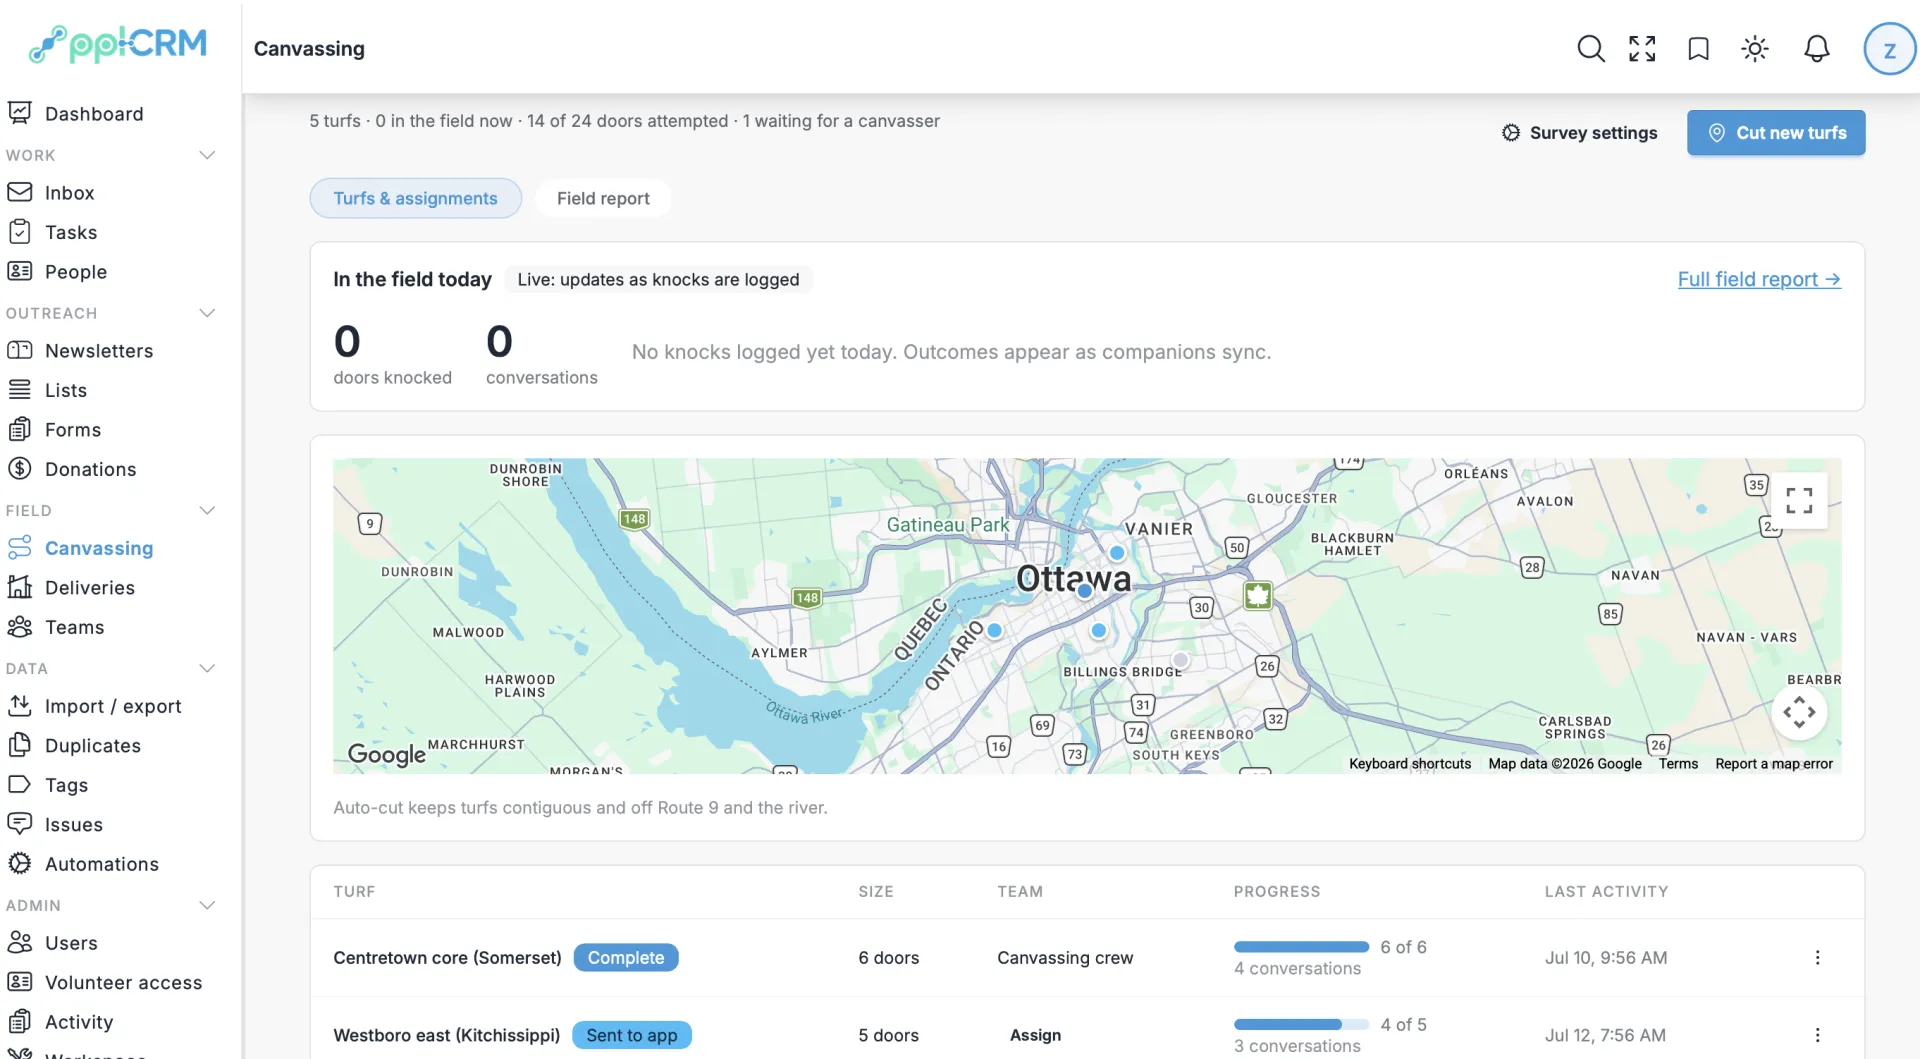
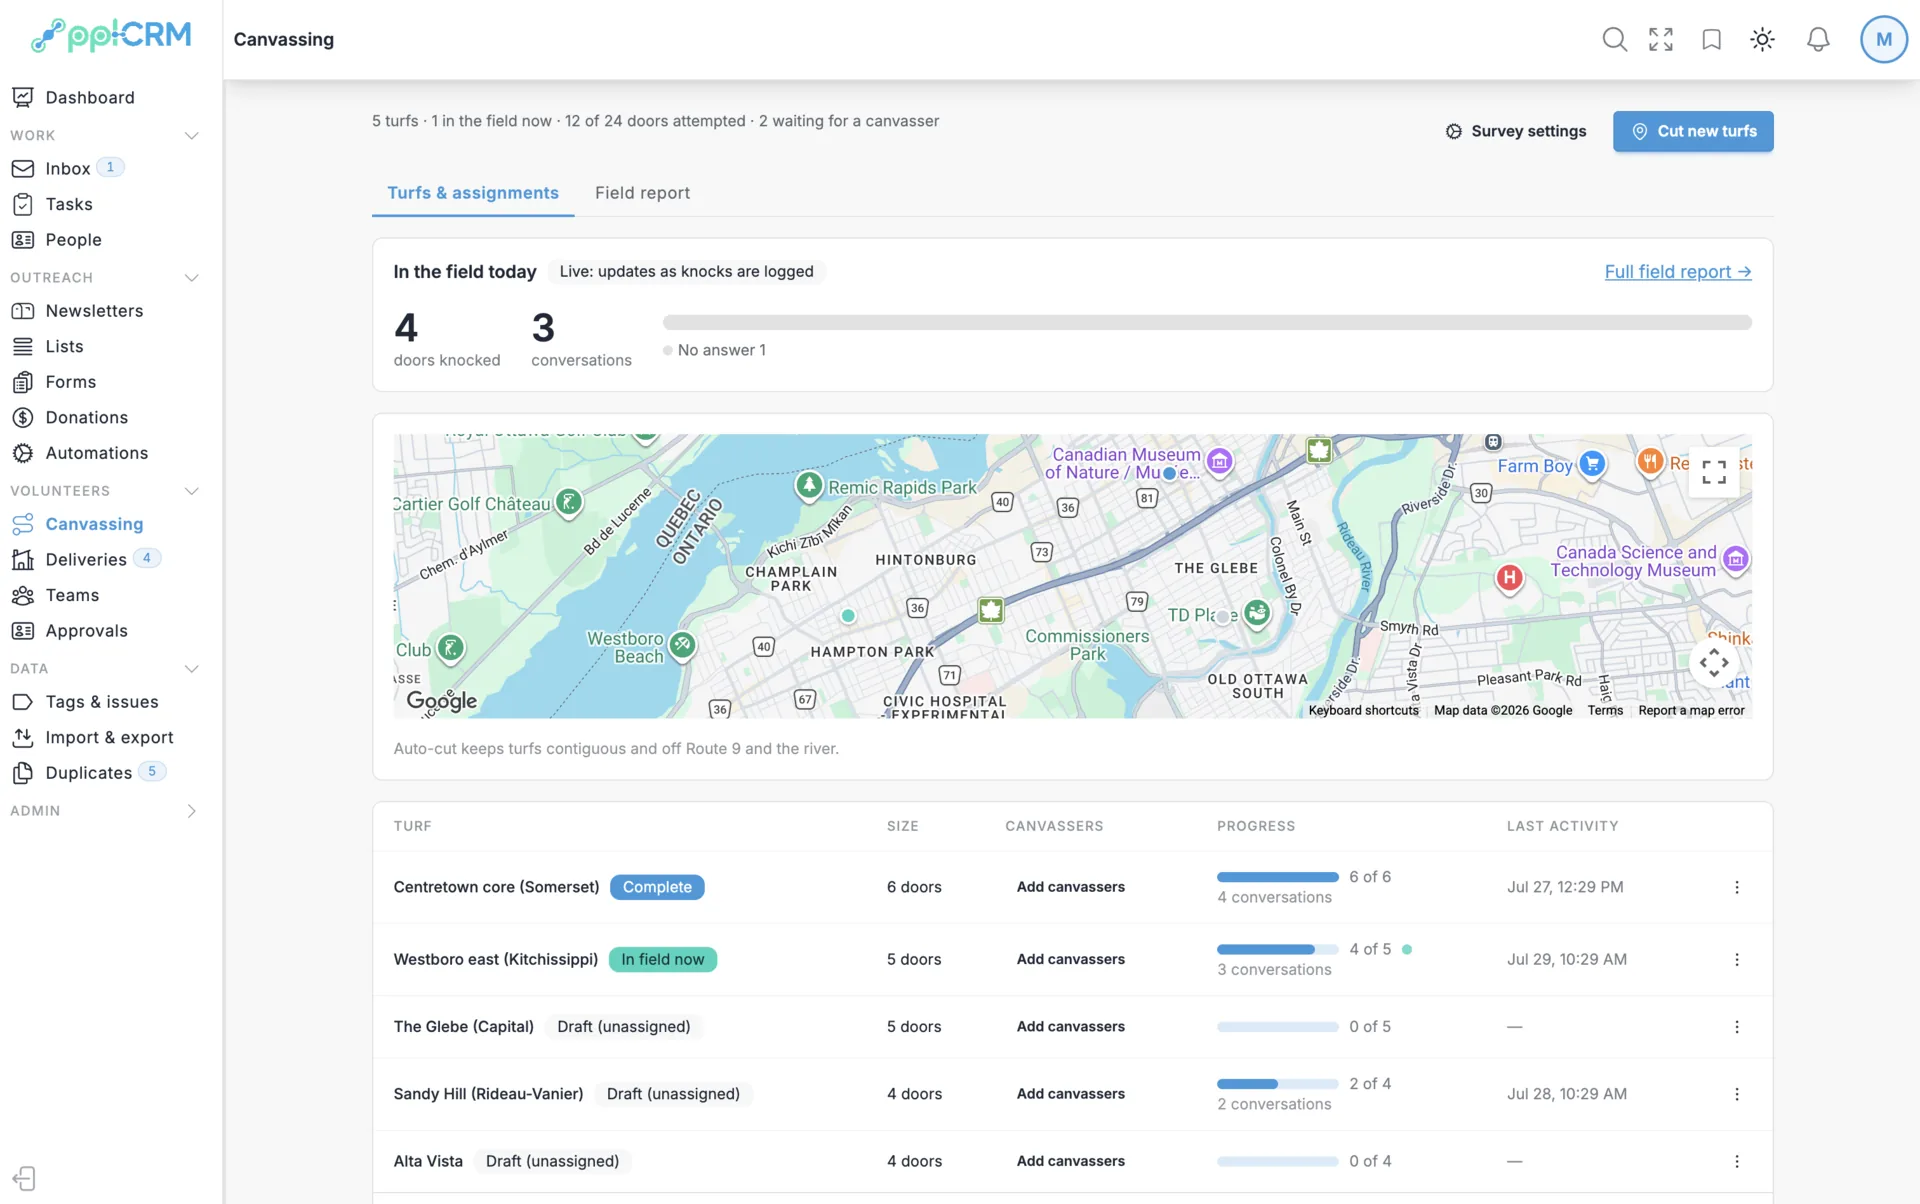
chore: real hero screenshots, and remove the owner's name from the product
Four captured hero shots replace the stale set, and audience-content.ts points
each frame URL at the page its screenshot actually shows — /households for the
church (the family claim is a household claim) and /people/ruth-abbott for the
non-profit, where the record proves "one list" better than a ledger does. The
imgIsPlaceholder flag is cleared, so the build stops warning.

The office shot now opens an interview request rather than a lawn-sign request
— casework on the page selling casework — and the canvassing map is zoomed to
the turfs instead of the whole region, so the pins are legible and "live field
report" has its evidence.

=== The owner's name shipped further than the screenshots ===

apps/backend/src/app/lib/mail/logo-asset.ts embeds the pplCRM logo as base64,
and the PNG carried its XMP metadata:

  <pdf:Author>Zee Hamid Office</pdf:Author>
  <xmp:CreatorTool>Canva doc=... user=UAGNY_PpDJA brand=BAGNY22nb3A</...>

That logo is attached to EVERY transactional email as an inline CID image, so a
personal name and a set of Canva account identifiers were reaching every
recipient the product has ever mailed. Stripped and re-embedded: 0 differing
pixels, 363 bytes smaller, metadata gone.

Four spec files also used the repo owner as fixture data (first_name 'Zee',
last_name 'Hamid', zee@example.com, 'Zee Tester'). Renamed to Dana Okonkwo and
Priya Raman. In the dashboard spec the variables are renamed by ROLE —
[…]

diff --git a/apps/backend/src/app/lib/mail/logo-asset.ts b/apps/backend/src/app/lib/mail/logo-asset.ts
@@ -4,4 +4,4 @@
 // Regenerate: base64 -i apps/frontend/src/assets/logo.png | tr -d "\\n"
 export const LOGO_CID = 'pplcrm-logo';
 export const LOGO_PNG_BASE64 =
[2 lines of base64/hex data omitted]

diff --git a/apps/backend/src/app/modules/dashboard/controller.spec.ts b/apps/backend/src/app/modules/dashboard/controller.spec.ts
@@ -7,8 +7,8 @@ describe('DashboardController Closed Emails Attribution', () => {
   const db = (BaseRepository as any)._db;
   const rand = () => String(Math.floor(Math.random() * 100000000) + 10000000);
   let tenantId: string;
-  let user1Id: string; // Zee (closer)
-  let user2Id: string; // Zeeshan (assignee)
+  let user1Id: string; // Dana (closer)
+  let user2Id: string; // Priya (assignee)
   let campaignId: string;
   let emailId: string;
 
@@ -35,10 +35,10 @@ describe('DashboardController Closed Emails Attribution', () => {
         {
           id: user1Id,
           tenant_id: tenantId,
-          email: `zee-${user1Id}@example.com`,
+          email: `dana-${user1Id}@example.com`,
           password: 'password',
-          first_name: 'Zee',
-          last_name: 'Hamid',
+          first_name: 'Dana',
+          last_name: 'Okonkwo',
           verified: true,
           createdby_id: user1Id,
           updatedby_id: user1Id,
@@ -46,9 +46,9 @@ describe('DashboardController Closed Emails Attribution', () => {
         {
           id: user2Id,
           tenant_id: tenantId,
-          email: `zeeshan-${user2Id}@example.com`,
+          email: `priya-${user2Id}@example.com`,
           password: 'password',
-          first_name: 'Zeeshan',
+          first_name: 'Priya',
           last_name: 'Ali',
           verified: true,
           createdby_id: user2Id,
@@ -70,7 +70,7 @@ describe('DashboardController Closed Emails Attribution', () => {
       })
       .execute();
 
-    // 4. Email in Inbox (folder_id '11'), assigned to Zeeshan (user2Id), but closed
+    // 4. Email in Inbox (folder_id '11'), assigned to Priya (user2Id), but closed
     await db
       .insertInto('emails')
       .values({
@@ -90,7 +90,7 @@ describe('DashboardController Closed Emails Attribution', () => {
       })
       .execute();
 
-    // 5. Activity log recording that Zee (user1Id) closed the email
+    // 5. Activity log recording that Dana (user1Id) closed the email
     await db
       .insertInto('user_activity')
       .values({
@@ -113,23 +113,23 @@ describe('DashboardController Closed Emails Attribution', () => {
     await db.deleteFrom('tenants').where('id', '=', tenantId).execute();
   });
 
-  it('should attribute closed emails to the actual closer user (Zee) instead of the assignee (Zeeshan)', async () => {
-    const auth = { tenant_id: tenantId, user_id: user1Id, name: 'Zee' } as any;
+  it('should attribute closed emails to the actual closer user (Dana) instead of the assignee (Priya)', async () => {
+    const auth = { tenant_id: tenantId, user_id: user1Id, name: 'Dana' } as any;
     const stats = await controller.getStats(auth);
 
-    // Verify emailsClosed list has Zee (user1Id) credited, and not Zeeshan
-    const zeeClosed = stats.emailsClosed.find((u: any) => String(u.user_id) === user1Id);
-    const zeeshanClosed = stats.emailsClosed.find((u: any) => String(u.user_id) === user2Id);
+    // Verify emailsClosed list has Dana (user1Id) credited, and not Priya
+    const closerClosed = stats.emailsClosed.find((u: any) => String(u.user_id) === user1Id);
+    const assigneeClosed = stats.emailsClosed.find((u: any) => String(u.user_id) === user2Id);
 
-    expect(zeeClosed).toBeDefined();
-    expect(zeeClosed?.count).toBe(1);
-    expect(zeeshanClosed).toBeUndefined();
+    expect(closerClosed).toBeDefined();
+    expect(closerClosed?.count).toBe(1);
+    expect(assigneeClosed).toBeUndefined();
 
     // Verify userStats array has the correct counts
-    const zeeStats = stats.userStats.find((u: any) => String(u.user_id) === user1Id);
-    const zeeshanStats = stats.userStats.find((u: any) => String(u.user_id) === user2Id);
+    const closerStats = stats.userStats.find((u: any) => String(u.user_id) === user1Id);
+    const assigneeStats = stats.userStats.find((u: any) => String(u.user_id) === user2Id);
 
-    expect(zeeStats?.closedCount).toBe(1);
-    expect(zeeshanStats?.closedCount).toBe(0);
+    expect(closerStats?.closedCount).toBe(1);
+    expect(assigneeStats?.closedCount).toBe(0);
   });
 });

diff --git a/apps/website/src/app/home/audience-content.ts b/apps/website/src/app/home/audience-content.ts
@@ -293,7 +293,7 @@ export const AUDIENCE_CONTENT: Record<Audience, AudienceCopy> = {
     hero: {
       h1: 'Donors, volunteers and neighbours. One list.',
       sub: 'Stop reconciling three spreadsheets. Gifts, drives and newsletters live on one person’s record.',
-      url: 'app.pplcrm.com/donations',
+      url: 'app.pplcrm.com/people/ruth-abbott',
       img: 'assets/site-shots/03-shot.webp',
     },
     steps: [
@@ -374,15 +374,10 @@ export const AUDIENCE_CONTENT: Record<Audience, AudienceCopy> = {
     hero: {
       h1: 'Know every family by name.',
       sub: 'Members, visitors and volunteers on one list. Giving, groups and follow-up visits all live on the family’s record.',
-      // PLACEHOLDER. Final values once 04-shot.webp (a church-mode People grid) is captured:
-      //   url: 'app.pplcrm.com/people',  img: 'assets/site-shots/04-shot.webp'
-      // Borrowing the non-profit donations shot until then, with `url` pointed at it so the
-      // browser frame does not caption a giving ledger as /people. It is the closest match —
-      // but its sidebar is the pre-org-mode IA (Canvassing/Donations, not Visitation/Giving),
-      // which is exactly the vocabulary claim the church page makes. Do not ship it live.
-      url: 'app.pplcrm.com/donations',
-      img: 'assets/site-shots/03-shot.webp',
-      imgIsPlaceholder: true,
+      // Households, not People: "know every family by name" is a claim about the household being
+      // the unit, and the grid shows exactly that — the Haddads as four members on one row.
+      url: 'app.pplcrm.com/households',
+      img: 'assets/site-shots/04-shot.webp',
     },
     steps: [
       {

diff --git a/apps/frontend/src/app/experiences/imports/ui/import-wizard.spec.ts b/apps/frontend/src/app/experiences/imports/ui/import-wizard.spec.ts
@@ -110,7 +110,7 @@ describe('ImportWizard', () => {
   }
 
   async function uploadSampleFile(): Promise<void> {
-    await uploadFile('First Name,Email\nAmira,amira@example.com\nZee,zee@example.com\n');
+    await uploadFile('First Name,Email\nAmira,amira@example.com\nDana,dana@example.com\n');
   }
 
   async function flushAsync(): Promise<void> {
@@ -167,7 +167,7 @@ describe('ImportWizard', () => {
 
     expect(component['mappedRows']()).toEqual([
       { first_name: 'Amira', email: 'amira@example.com' },
-      { first_name: 'Zee', email: 'zee@example.com' },
+      { first_name: 'Dana', email: 'dana@example.com' },
     ]);
   });
 
@@ -216,7 +216,7 @@ describe('ImportWizard', () => {
       expect.objectContaining({
         rows: [
           { first_name: 'Amira', email: 'amira@example.com' },
-          { first_name: 'Zee', email: 'zee@example.com' },
+          { first_name: 'Dana', email: 'dana@example.com' },
         ],
         duplicate_decision: 'merge',
       }),

diff --git a/apps/backend/src/app/modules/activity/controller.spec.ts b/apps/backend/src/app/modules/activity/controller.spec.ts
@@ -20,7 +20,7 @@ describe('ActivityController', () => {
     const auth = { tenant_id: 'tenant-1', user_id: 'user-1' } as any;
     const options = { startRow: 0, endRow: 25 };
     const mockFeedResult = {
-      rows: [{ id: '1', activity: 'create', entity: 'person', first_name: 'Zee', last_name: '' }],
+      rows: [{ id: '1', activity: 'create', entity: 'person', first_name: 'Dana', last_name: '' }],
       count: 1,
     };
 
@@ -90,7 +90,7 @@ describe('ActivityController', () => {
   });
 
   it('should queue activity export as a background job and return processing status', async () => {
-    const auth = { tenant_id: 'tenant-1', user_id: 'user-1', name: 'Zee' } as any;
+    const auth = { tenant_id: 'tenant-1', user_id: 'user-1', name: 'Dana' } as any;
     const input = {
       tenant_id: 'tenant-1',
       options: { userId: 'user-1' },

diff --git a/apps/backend/src/app/lib/jobs/handlers/ops.handlers.spec.ts b/apps/backend/src/app/lib/jobs/handlers/ops.handlers.spec.ts
@@ -220,8 +220,8 @@ describe('handleSendBugReportEmail', () => {
   }
 
   const reporterRow = {
-    email: 'zee@example.com',
-    first_name: 'Zee',
+    email: 'dana@example.com',
+    first_name: 'Dana',
     last_name: 'Tester',
     role: 'admin',
     campaign_id: null,
@@ -247,7 +247,7 @@ describe('handleSendBugReportEmail', () => {
     expect(mail.to).toBe('ops@test');
     expect(mail.subject).toBe('pplCRM bug report BR-42 (tenant 7)');
     expect(mail.text).toContain('The save button does nothing');
-    expect(mail.text).toContain('Zee Tester <zee@example.com>');
+    expect(mail.text).toContain('Dana Tester <dana@example.com>');
     expect(mail.text).toContain('Acme Campaign');
     expect(mail.text).toContain('Screenshot: none');
     expect(mail.attachments).toEqual([]);

diff --git a/apps/backend/src/app/lib/base.repo.ts b/apps/backend/src/app/lib/base.repo.ts
@@ -528,7 +528,7 @@ export class BaseRepository<T extends keyof Models> {
     // Allow users to type * as a wildcard character; normalize to SQL %.
     // The operator's own wrapping (startsWith → trailing %, contains → both, etc.)
     // is always applied on top — Postgres collapses consecutive %% automatically,
-    // so 'zee*' with contains becomes '%zee%%' → effectively '%zee%'.
+    // so 'dana*' with contains becomes '%dana%%' → effectively '%dana%'.
     const normalized = String(val).replace(/\*/g, '%');
 
     switch (op) {
